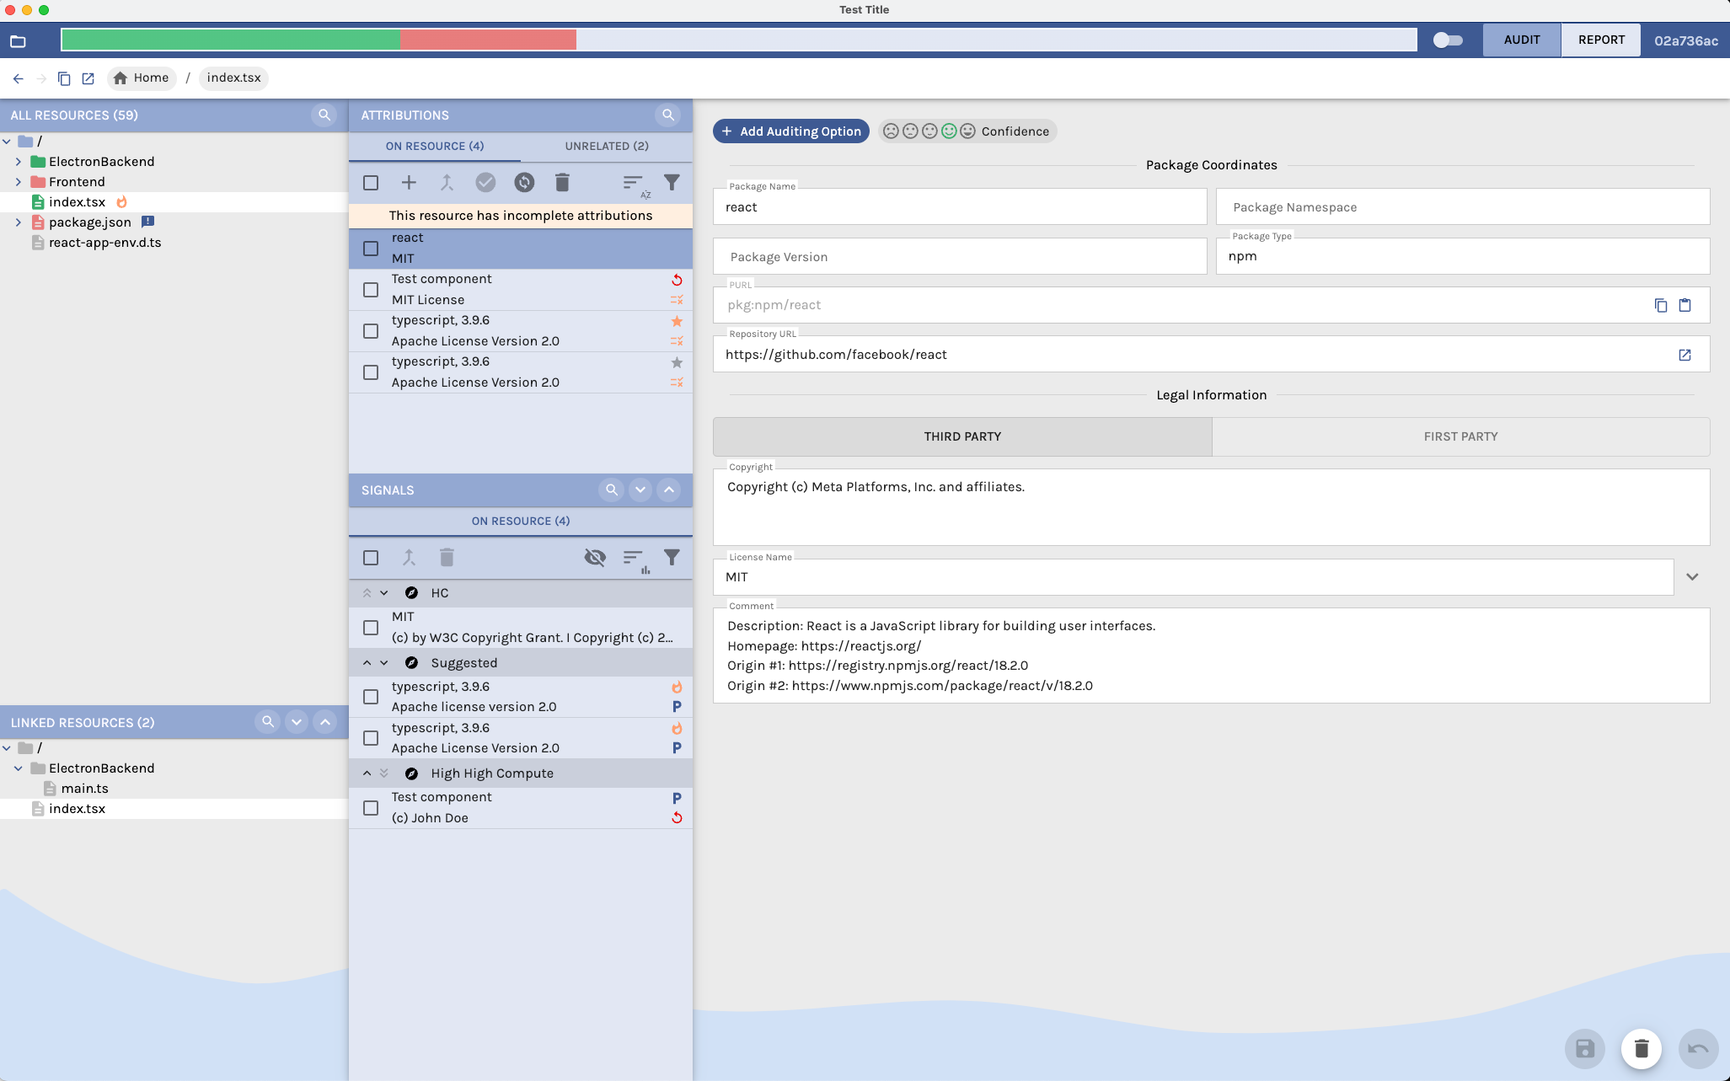
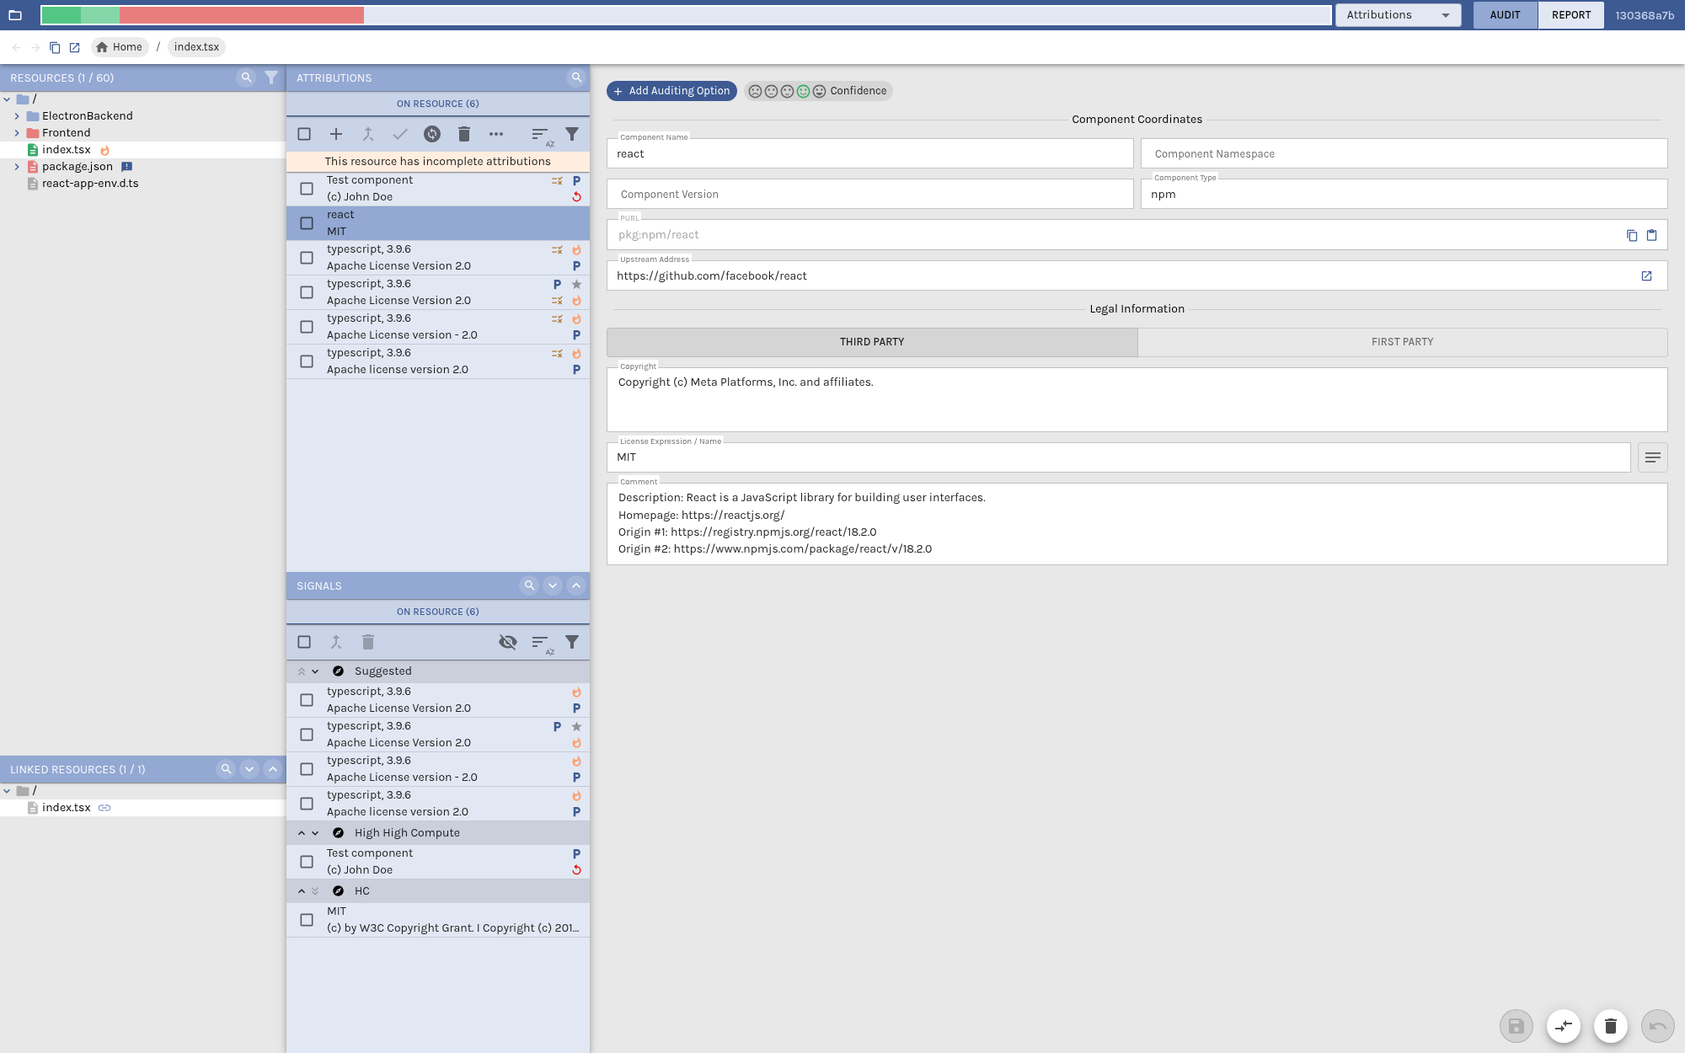
docs: update user guide

diff --git a/USER_GUIDE.md b/USER_GUIDE.md
@@ -16,10 +16,14 @@ SPDX-License-Identifier: CC0-1.0
   - [Opossum file format](#opossum-file-format)
   - [Opening a file](#opening-a-file)
   - [Importing a File](#importing-a-file)
+  - [Importing Additional Information](#importing-additional-information)
+  - [Splitting and Merging Projects](#splitting-and-merging-projects)
+  - [Classifying Signals](#classifying-signals)
   - [Project Metadata](#project-metadata)
   - [Project Statistics](#project-statistics)
   - [Exporting Formats](#exporting-formats)
   - [Attributions](#attributions)
+  - [Searching and Filtering](#searching-and-filtering)
   - [Top Bar](#top-bar)
   - [Audit View](#audit-view)
   - [Report View](#report-view)
@@ -35,7 +39,7 @@ To check if your installation is up-to-date, open the `Help` menu and select `Ch
 
 Windows installations and Linux AppImages offer **Download update** when a newer release is found. Downloading starts only when you click this button. The banner shows download progress, then offers **Restart and update**. Installation requires this explicit action; ordinary quitting and dismissing the banner do not install the download. If a download fails, use **Retry**.
 
-Restarting uses the usual unsaved-changes prompt. Choose **Discard** to continue or **Cancel** to keep editing. To save your changes, cancel, save in the editor, then choose **Restart and update** again. The installer handles installation and application exit.
+If there are unsaved edits in the attribution details, restarting shows the unsaved-changes prompt. Choose **Discard and Proceed** to continue or **Cancel** to keep editing. To save your changes, cancel, save in the editor, then choose **Restart and update** again. The installer handles installation and application exit.
 
 The automatic-check preference controls checks at startup and hourly in the background. Turning it off still allows a manual check and downloading an update by clicking **Download update**. macOS and Snap installations continue to offer a download link.
 
@@ -47,7 +51,7 @@ Run the executable _OpossumUI-for-linux.AppImage_
 
 #### MacOS
 
-Run _OpossumUI_ in _OpossumUI-for-mac.zip_.
+Run _OpossumUI_ in _OpossumUI-for-mac-intel.zip_ (Intel Macs) or _OpossumUI-for-mac-arm64.zip_ (Apple Silicon Macs).
 
 #### Windows
 
@@ -57,39 +61,50 @@ Run _OpossumUI-for-win.exe_ to install the OpossumUI. Then open _OpossumUI_ from
 
 ### Opossum file format
 
-Files with a `.opossum` extension are zip-archives which contain two JSON files:
+Files with a `.opossum` extension are zip-archives which contain:
 
-- an input file
-- (optionally) an output file, which is created by the app when saving for the first time if not already present.
+- an input file (`input.json`)
+- (optionally) an output file (`output.json`), which is created by the app when saving for the first time if not already present.
 
-The output file must be in the same folder as the input file and called `[NAME_OF_THE_FIRST_FILE]_attributions.json`
-to be recognized by the app.
+Both files are stored inside the `.opossum` archive.
 
 ### Opening a File
 
-To open a `.opossum` file in the app, simply click the _Open File_ button on the left of the top bar (or on the entry in
-the _File_ menu with the same name).
+To open a `.opossum` file in the app, simply click the _Open File_ button on the left of the top bar (or select _Open..._ from
+the _File_ menu).
 
 To quickly access recently opened files, select the relevant file from the `Open Recent` submenu.
 
 ### Importing a File
 
-To import a legacy opossum file (`.json`/`.json.gz`) or a file produced by a scanner (e.g. a ScanCode Json file), click
+To import a legacy opossum file (`.json`/`.json.gz`) or a file produced by a scanner (e.g. a ScanCode JSON file), click
 the _Import_ item in the _File_ menu and select the desired file format from the submenu. You will be presented
-with a dialog window where you can select the file that you wish to import. Because OpossumUI converts this file into a
-new `.opossum` file as part of the import process, you will also be prompted to select where this new `.opossum` file
-should be saved. Clicking the _Import_ button converts the file into a new `.opossum` file and opens it in OpossumUI.
+with a dialog window where you can select the file that you wish to import. To create a new project, turn off
+_Import into current project_ if a project is already open, and select where the new `.opossum` file should be saved.
+Clicking the _Import_ button converts the file into a new `.opossum` file and opens it in OpossumUI.
 Please note that edits made through OpossumUI are **ONLY** saved in this new `.opossum` file, **NOT** in the file you
 selected for import.
 
-### Merging additional Information
+### Importing Additional Information
 
-To enrich your currently open file with additional information from a different scanner, open the _Merge_ item in the _File_ menu and select the desired file format.
+To enrich your currently open file with additional information from a different scanner, open the _Import_ item in the _File_ menu and select the desired file format. Leave _Import into current project_ enabled, select the file to import, and click _Import_. OpossumUI backs up the current project before importing. The _Merge_ item is used to merge split Opossum files instead.
 
 Note:
 
-- Merging a file will modify your currently open `.opossum` file and cannot be undone
-- Ensure that the paths in the merged file and the currently open file agree. Currently, there is no functionality to compensate differences.
+- Importing into the current project modifies your currently open `.opossum` file and cannot be undone in the app.
+- Ensure that the paths in the imported file and the currently open file agree. Currently, there is no functionality to compensate differences.
+
+### Splitting and Merging Projects
+
+To divide a review between several people, choose `Split…` in the `File` menu, select the resources to hand off, and choose a location for the new `.opossum` file. These resources become read-only in the original file and editable in the new file; the rest of the project is read-only in the new file.
+
+After reviewing, use `Merge...` in the `File` menu to combine the split files, either into the currently open project or into a new `.opossum` file.
+
+#### Read-Only Resources and Attributions
+
+Read-only resources and attributions are marked with a padlock. You can inspect them, but cannot edit them. If an attribution is shared between editable and read-only resources, changes apply only to its editable links.
+
+If the other split files have been lost, `File` → `Force Unlock…` makes the read-only parts editable again. After force-unlocking, the file can no longer be merged with the other split files.
 
 ### Classifying Signals
 
@@ -99,7 +114,7 @@ To classify the severity of the various signals, OpossumUI supports two mechanis
   - Non-critical/unknown
   - Medium critical
   - Highly critical
-- **Classification**: The classification allows the creator of the `.opossum` file to predefine a severity schema of the form: `severityLevel --> description`. `severityLevel` needs to be a positive integer. By convention, 0 implies that the signal can be used without issues and the severity rises with higher numbers.
+- **Classification**: The classification allows the creator of the `.opossum` file to predefine a severity schema of the form: `severityLevel --> description`. `severityLevel` needs to be a non-negative integer. By convention, 0 implies that the signal can be used without issues and the severity rises with higher numbers.
 
 The relevant information needs to be already present in the `.opossum` files.
 
@@ -113,6 +128,8 @@ To view project metadata, open the `File` menu and select `Project Metadata`.
 
 To view project statistics, open the `File` menu and select `Project Statistics`. This opens a popup that shows various
 charts summarizing the state of the project. Additionally, a table with detailed license statistics is provided.
+
+Click a chart category to open a filtered view of the corresponding attributions, signals or resources in the `Audit View`. For example, `Needs Review` shows attributions awaiting review. License names in the `Licenses` tab also link to the matching resources and signals.
 
 ### Exporting Formats
 
@@ -134,11 +151,17 @@ can in principle be any file which has a copyright or is distributed under a lic
 link resources to the corresponding attributions, with an emphasis on correct licensing and copyright information.**
 In the OpossumUI, a distinction between **signals** and **attributions** is made:
 
-- **attributions** are attribution information that are created in the current run of the OpossumUI. They are stored in
+- **attributions** are attribution information selected or created during the audit. They are stored in
   the output file, together with the resources they have been linked to,
-- **signals** are attribution information that have been linked to a resource before the current OpossumUI run. They can
-  come from automatic tools or previous run of the OpossumUI. They have a **source** and can be used as starting point for
+- **signals** are attribution information provided in the input file. They can
+  come from automatic tools or earlier audits. They have a **source** and can be used as starting point for
   assigning attributions.
+
+### Searching and Filtering
+
+Use the search fields in the resource browser and attribution/signal panels to find entries. The funnel buttons let you filter the resources, attributions and signals, as well as the table in the `Report View`.
+
+In the `Licenses` filter, you can select several licenses or add a `Name contains` filter to match part of a license name, such as `BSD`. Attribution and signal filters also let you focus on properties such as incomplete information, criticality or classification. The available filters depend on the panel and the settings in the `View` menu.
 
 ### Top Bar
 
@@ -153,7 +176,7 @@ The `Top Bar` contains the following elements:
 - the app version,
 - the path bar.
 
-The `Progress Bar` exists in various versions which can be selected via the `Progress Bar Dropdown`. Note that the possibilities offered depend on the settings chosen in the _View_ menu. Currently, the following progress bars are offered:
+The `Progress Bar` exists in various versions which can be selected via the `Progress Bar Dropdown`. Note that the possibilities offered depend on the settings chosen in the _View_ menu. The following progress bars help track the audit:
 
 - The `Attributions` progress bar indicates how many resources have an attribution (dark green), how many have a **pre-selected** attribution (lighter green with gradient), and how many resources have a signal, but have not yet received an attribution (orange), with respect to the total number of files. Hovering on the bar shows a tooltip containing all numbers. Clicking on the bar navigates to a resource that has a signal, but no attribution.
 - The `Criticalities` progress bar indicates how many files without an attribution have a highly critical signal (red), a critical signal (orange) or no critical signal (light blue) with respect to the total number of files not having an attribution. Hovering on the bar shows a tooltip containing the exact number of files. Clicking on the bar navigates to a resource that has a critical signal, but no attribution.
@@ -161,7 +184,7 @@ The `Progress Bar` exists in various versions which can be selected via the `Pro
 
 The `View Switch` allows to change between the `Audit View` and the `Report View`.
 
-The `path bar` shows the path of the currently selected resource. It also provides opens to navigate back and forth in the selection history, to copy the path to the clipboard, and, if possible, to open the resource's source repository in a browser.
+The `path bar` shows the path of the currently selected resource. It also provides options to navigate back and forth in the selection history, to copy the path to the clipboard, and, if possible, to open the resource's source repository in a browser.
 
 ### Audit View
 
@@ -198,7 +221,7 @@ The coloring scheme reads as follows:
 
 Please note that in case a resource has an attribution, this attribution also applies to all of its children that do not have attributions of their own. Therefore, adding an attribution to a folder affects its children if these are not attributed themselves. The inference stops once a folder or a file is hit that has a differing attribution.
 
-At the bottom of the resource browser you will find a panel listing resources linked to the selected attribution or signal.
+At the bottom of the resource browser you will find a panel listing resources linked to the selected attribution or signal. A **chain link icon** ![integration](./docs/user_guide_screenshots/directly_linked_icon.png) marks a directly linked resource, rather than one covered through inheritance.
 
 #### Attributions Panel
 
@@ -221,10 +244,10 @@ Similar to the resource browser, icons on the attributions are used to highlight
 
 #### Signals Panel
 
-The signals panel lists signals as they relate to the selected resource. The possible relationships, by which attributions are grouped into tabs, are:
+The signals panel lists signals as they relate to the selected resource. The possible relationships, by which signals are grouped into tabs, are:
 
-- **on the selected resource:** attributions directly assigned to the selected resource
-- **on children of the selected resource:** attributions assigned to resources contained in the selected resource
+- **on the selected resource:** signals directly assigned to the selected resource
+- **on children of the selected resource:** signals assigned to resources contained in the selected resource
 
 Besides searching, sorting, and filtering signals according to your needs, you can also perform any of the following actions:
 
@@ -233,14 +256,17 @@ Besides searching, sorting, and filtering signals according to your needs, you c
 - **restore:** restores the selected soft-deleted signals (only available when you include the deleted signals via the show/hide button)
 - **show/hide deleted signals:** shows/hides the soft-deleted signals
 
-Similar to the resource browser, icons on the signals are used to highlight relevant properties of the signal:
+Similar to the resource browser, icons on attributions and signals are used to highlight relevant properties:
 
 - a **flame icon** ![integration](./docs/user_guide_screenshots/criticality_icon.png) indicates that the signal is marked as critical. The color scale indicates the criticality.
 - a **C-Icon** ![integration](./docs/user_guide_screenshots/classification_icon.png) indicates that the signal features a non-zero classification. The color scale indicates the number of the classification.
-- a **P-Icon** ![integration](./docs/user_guide_screenshots/preferred_icon.png) marks the signal as preferred.
+- a **P-Icon** ![integration](./docs/user_guide_screenshots/preselected_icon.png) marks the signal as pre-selected.
+- an **orange star icon** ![integration](./docs/user_guide_screenshots/currently_preferred_icon.png) marks an attribution as currently preferred.
 - a **star icon** ![integration](./docs/user_guide_screenshots/previously_preferred_icon.png) shows that the signal has been preferred in the past.
+- a **grey half-star icon** ![integration](./docs/user_guide_screenshots/modified_preferred_icon.png) indicates that an attribution derived from a previously preferred signal has been modified.
 - an **icon with a one** ![integration](./docs/user_guide_screenshots/first_party_icon.png) marks the signal as being first party.
 - a **replay icon** ![integration](./docs/user_guide_screenshots/needs_follow_up_icon.png) marks the signal as requiring follow up.
+- an **orange question mark** ![integration](./docs/user_guide_screenshots/needs_review_icon.png) marks an attribution as needing review by QA.
 - a **text with an x icon** ![integration](./docs/user_guide_screenshots/exclude_from_notice_icon.png) indicates that the signal is excluded from notice.
 - a **checklist with a missing item** ![integration](./docs/user_guide_screenshots/incomplete_information_icon.png) indicates that the signal information is incomplete.
 
@@ -251,7 +277,7 @@ The attribution details show the attributes of the selected attribution or signa
 The attributes are divided into three categories:
 
 - **auditing options:** certain annotations and tags that facilitate the auditing process
-- **package coordinates:** attributes used to uniquely identify the package
+- **component coordinates:** attributes used to uniquely identify the package
 - **legal information:** attributes used to describe the OSS licensing aspects of the package
 
 ##### Auditing Options
@@ -264,9 +290,9 @@ The attributes are divided into three categories:
 - _Needs Follow-Up_: This flag can be used to indicate that the attribution requires follow-up, usually with the development team, as it would be part of a blacklist.
 - _Confidence_: This field is used to indicate the confidence in the correctness of the attribution. It is an emoticon on a scale of 1 to 5. You can also filter for attributions with low confidence in the attributions panel.
 
-##### Package Coordinates
+##### Component Coordinates
 
-These coordinates serve to uniquely identify the package. In particular, package name and package type are required information from which a PURL ("Package URL") is automatically generated. Some package types also require the presence of a namespace. For example, GitHub and Maven packages require a namespace, while NPM packages do not.
+These coordinates serve to uniquely identify the package. In particular, component name and component type are required information from which a PURL ("Package URL") is automatically generated. Some component types also require the presence of a namespace. For example, GitHub and Maven packages require a namespace, while NPM packages do not.
 
 Also try to fill the upstream address of the attribution as it often helps to automatically compute the correct license information from it.
 
@@ -276,11 +302,22 @@ Be aware that different package versions may result in different license informa
 
 Copyright and license name are the most important part of an attribution when it comes to OSS compliance. However, if you are dealing with first-party code, then please select this option in this section. You then no longer will be asked to supply copyright and license name.
 
-##### Comparing an Attribution to its Original Signal
+##### Editing Shared Attributions
 
-If an attribution originates from a signal, a `Compare to Original Signal` icon button will be displayed in the row of buttons at the bottom of the attribution details. Clicking this button opens a popup where the package coordinates and legal information of both the current attribution and its original signal are displayed side-by-side. Attributes that have changed are highlighted by colored outlines.
+When you save changes to an attribution linked to several resources, a popup shows the affected resources and lets you choose the scope:
 
-You can revert individual attributes to their original state by pressing the arrow button inside the field. The action can be undone using the same button, which will point in the opposite direction after a revert. Additionally, all changes can be reverted at once by pressing the `Revert All` button of the popup. Changes are applied to the attribution once the `Apply Changes` button is pressed, which also closes the popup.
+- `Save only on Selected` applies the edited information to the selected resource without changing the attribution at its other links.
+- `Save on All` applies the edit to all editable links of the attribution.
+
+The same choice is available when confirming pre-selected attributions, using `Confirm only on Selected` or `Confirm on All`.
+
+##### Comparing Attributions and Signals
+
+If an attribution originates from a signal, a `Compare with original` icon button will be displayed in the row of buttons at the bottom of the attribution details. Clicking this button opens a popup where the component coordinates and legal information of both the current attribution and its original signal are displayed side-by-side. Differences are highlighted.
+
+You can copy individual values from the original signal using the arrow buttons between the fields, or edit the attribution directly in the popup. Individual edits can be undone using the undo buttons. Press `Save changes` to apply your edits, or `Cancel` to close the popup without applying them. Signals remain read-only.
+
+To compare with another attribution or signal, select an entry, click `Compare with…` at the bottom of its details, select the second entry, and click `Compare`. The same comparison popup opens, where editable attributions can be changed and values copied between the two sides.
 
 ### Report View
 
@@ -292,11 +329,11 @@ Clicking on the _edit_ buttons in the _name_ columns, navigates to the respectiv
 
 ### Preferred Attributions
 
-In the `Audit View`, an attribution can be marked as preferred to indicate that it is preferred over the displayed signals. This feature does not have any immediate effect on the signals displayed in OpossumUI. Instead, it is intended to give additional information to tools that consume `.opossum` files. A preferred attribution will store origin IDs of signals visible to the user when it was marked as preferred.
+In the `Audit View`, an attribution can be marked as preferred over signals on the resources it covers. This does not hide or modify the signals in OpossumUI. Instead, it is intended to give additional information to tools that consume `.opossum` files.
 
-Only signals with a source marked as `isRelevantForPreference` can be preferred over. If no signal source has this flag set, the feature is disabled.
+Only signals with a source marked as `isRelevantForPreferred` can be preferred over. If no signal source has this flag set, the feature is disabled.
 
-To mark an attribution as preferred, choose an attribution in the `Audit View`, and open the auditing options menu. You will see an option to mark the attribution as preferred. When an attribution is marked as preferred, `preferred = true` is written to the `.opossum` file, and the origin IDs of all visible signals relevant for preference are written in the field `preferredOverOriginIds`. Preferred attributions are displayed with a star icon.
+To mark an attribution as preferred, choose an attribution in the `Audit View`, and open the auditing options menu. You will see an option to mark the attribution as preferred. When the project is saved, `preferred = true` is written to the `.opossum` file, and the origin IDs of relevant signals on resources covered by the attribution are written in the field `preferredOverOriginIds`, regardless of whether those signals are visible. Preferred attributions are displayed with a star icon.
 
 Note that you are only able to mark an attribution as preferred (or unmark it if it was preferred beforehand) if you are in "QA Mode". To enable this mode click the item "QA Mode" in the `View` submenu.
 
